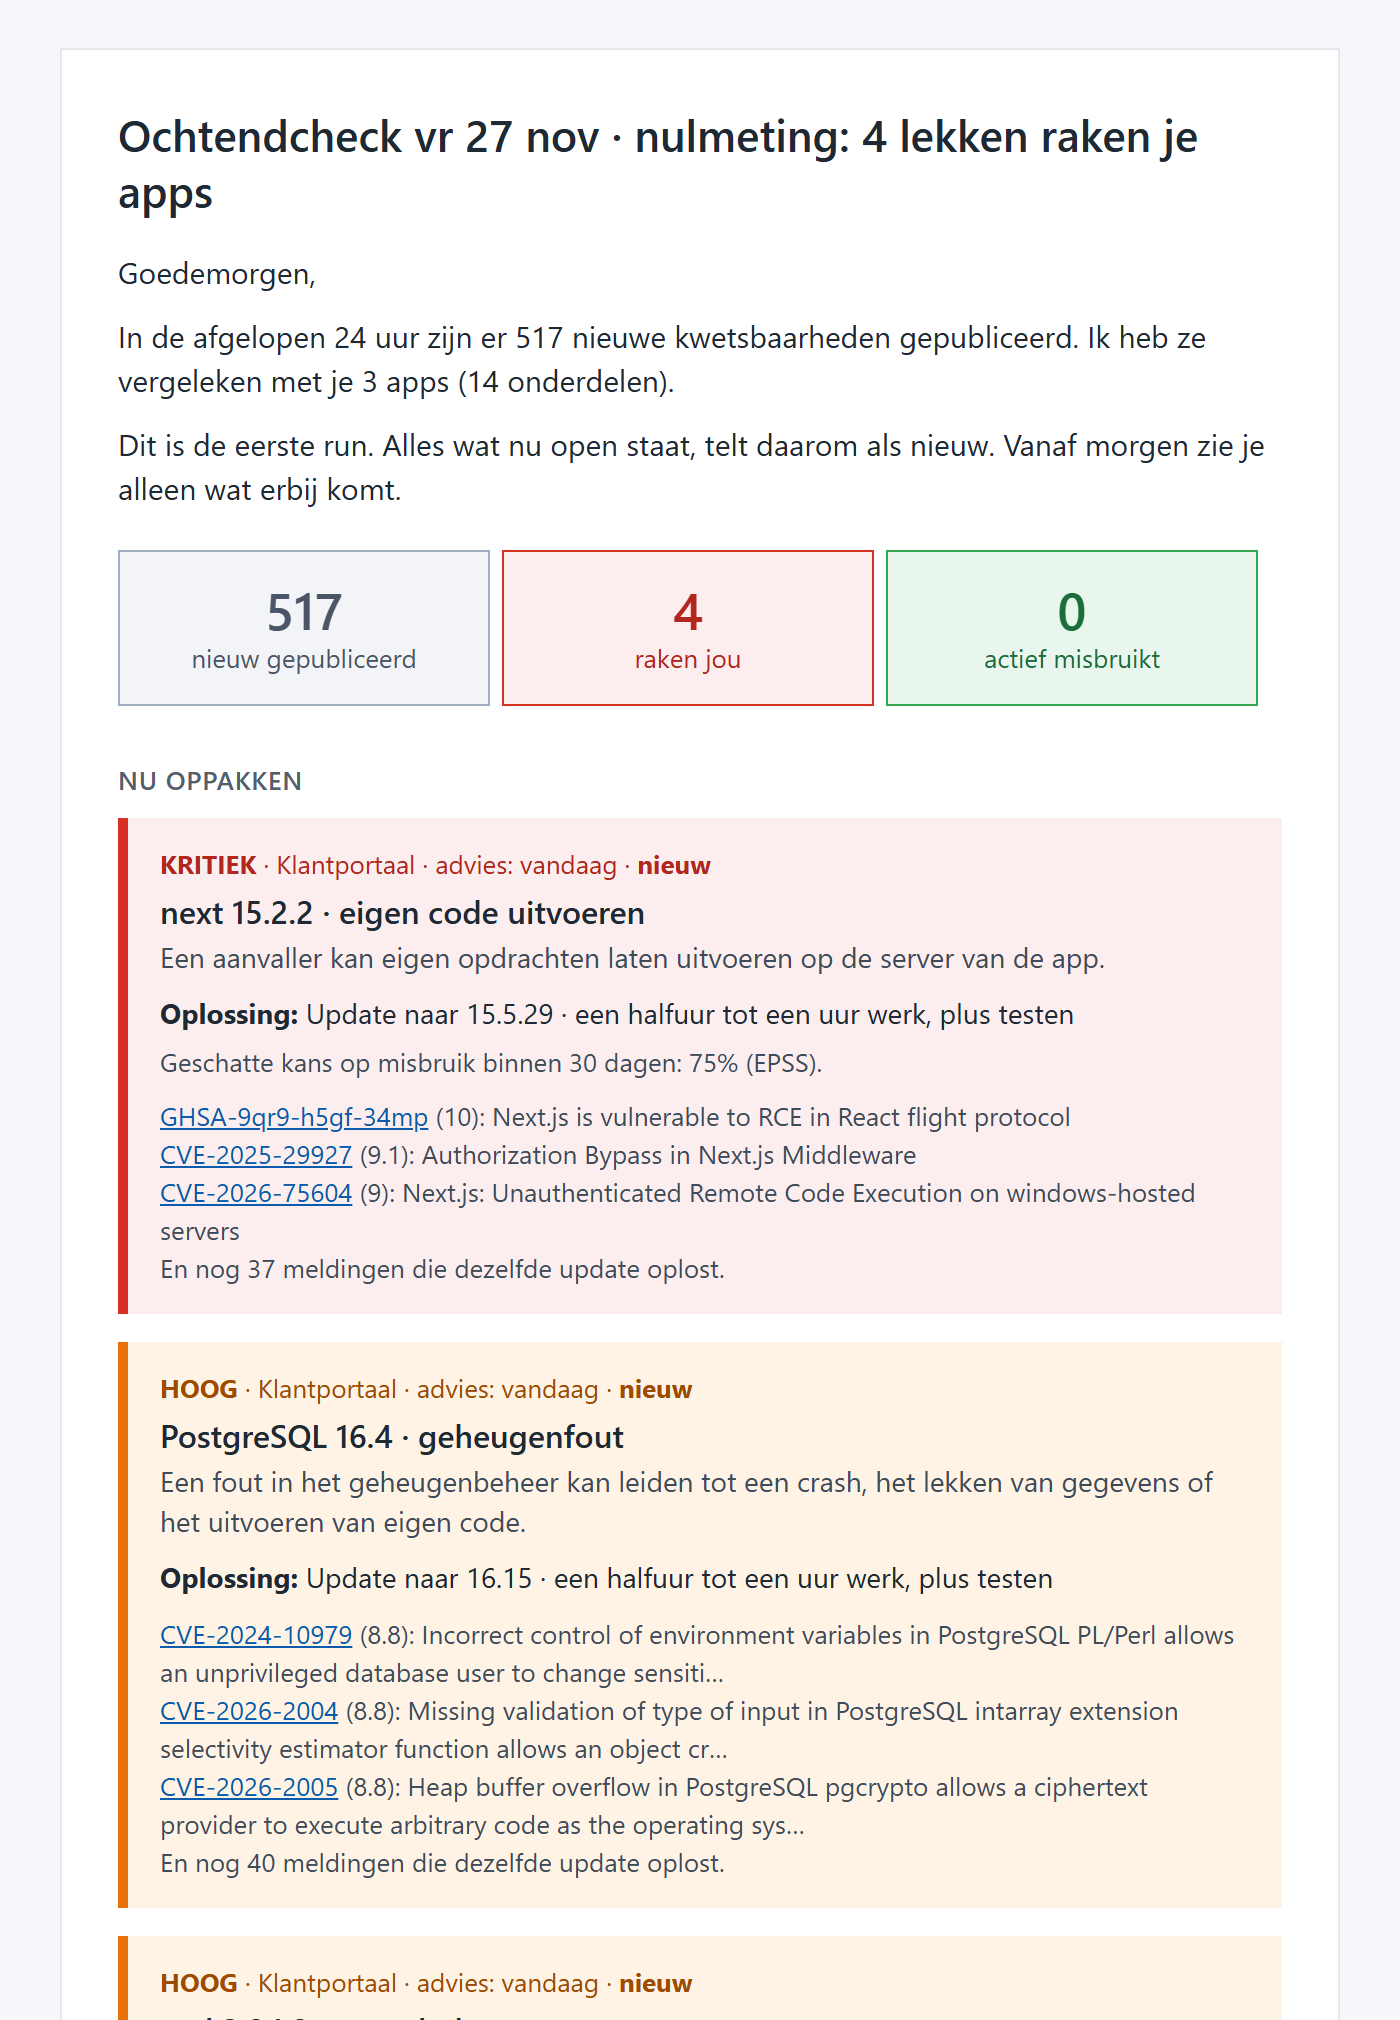
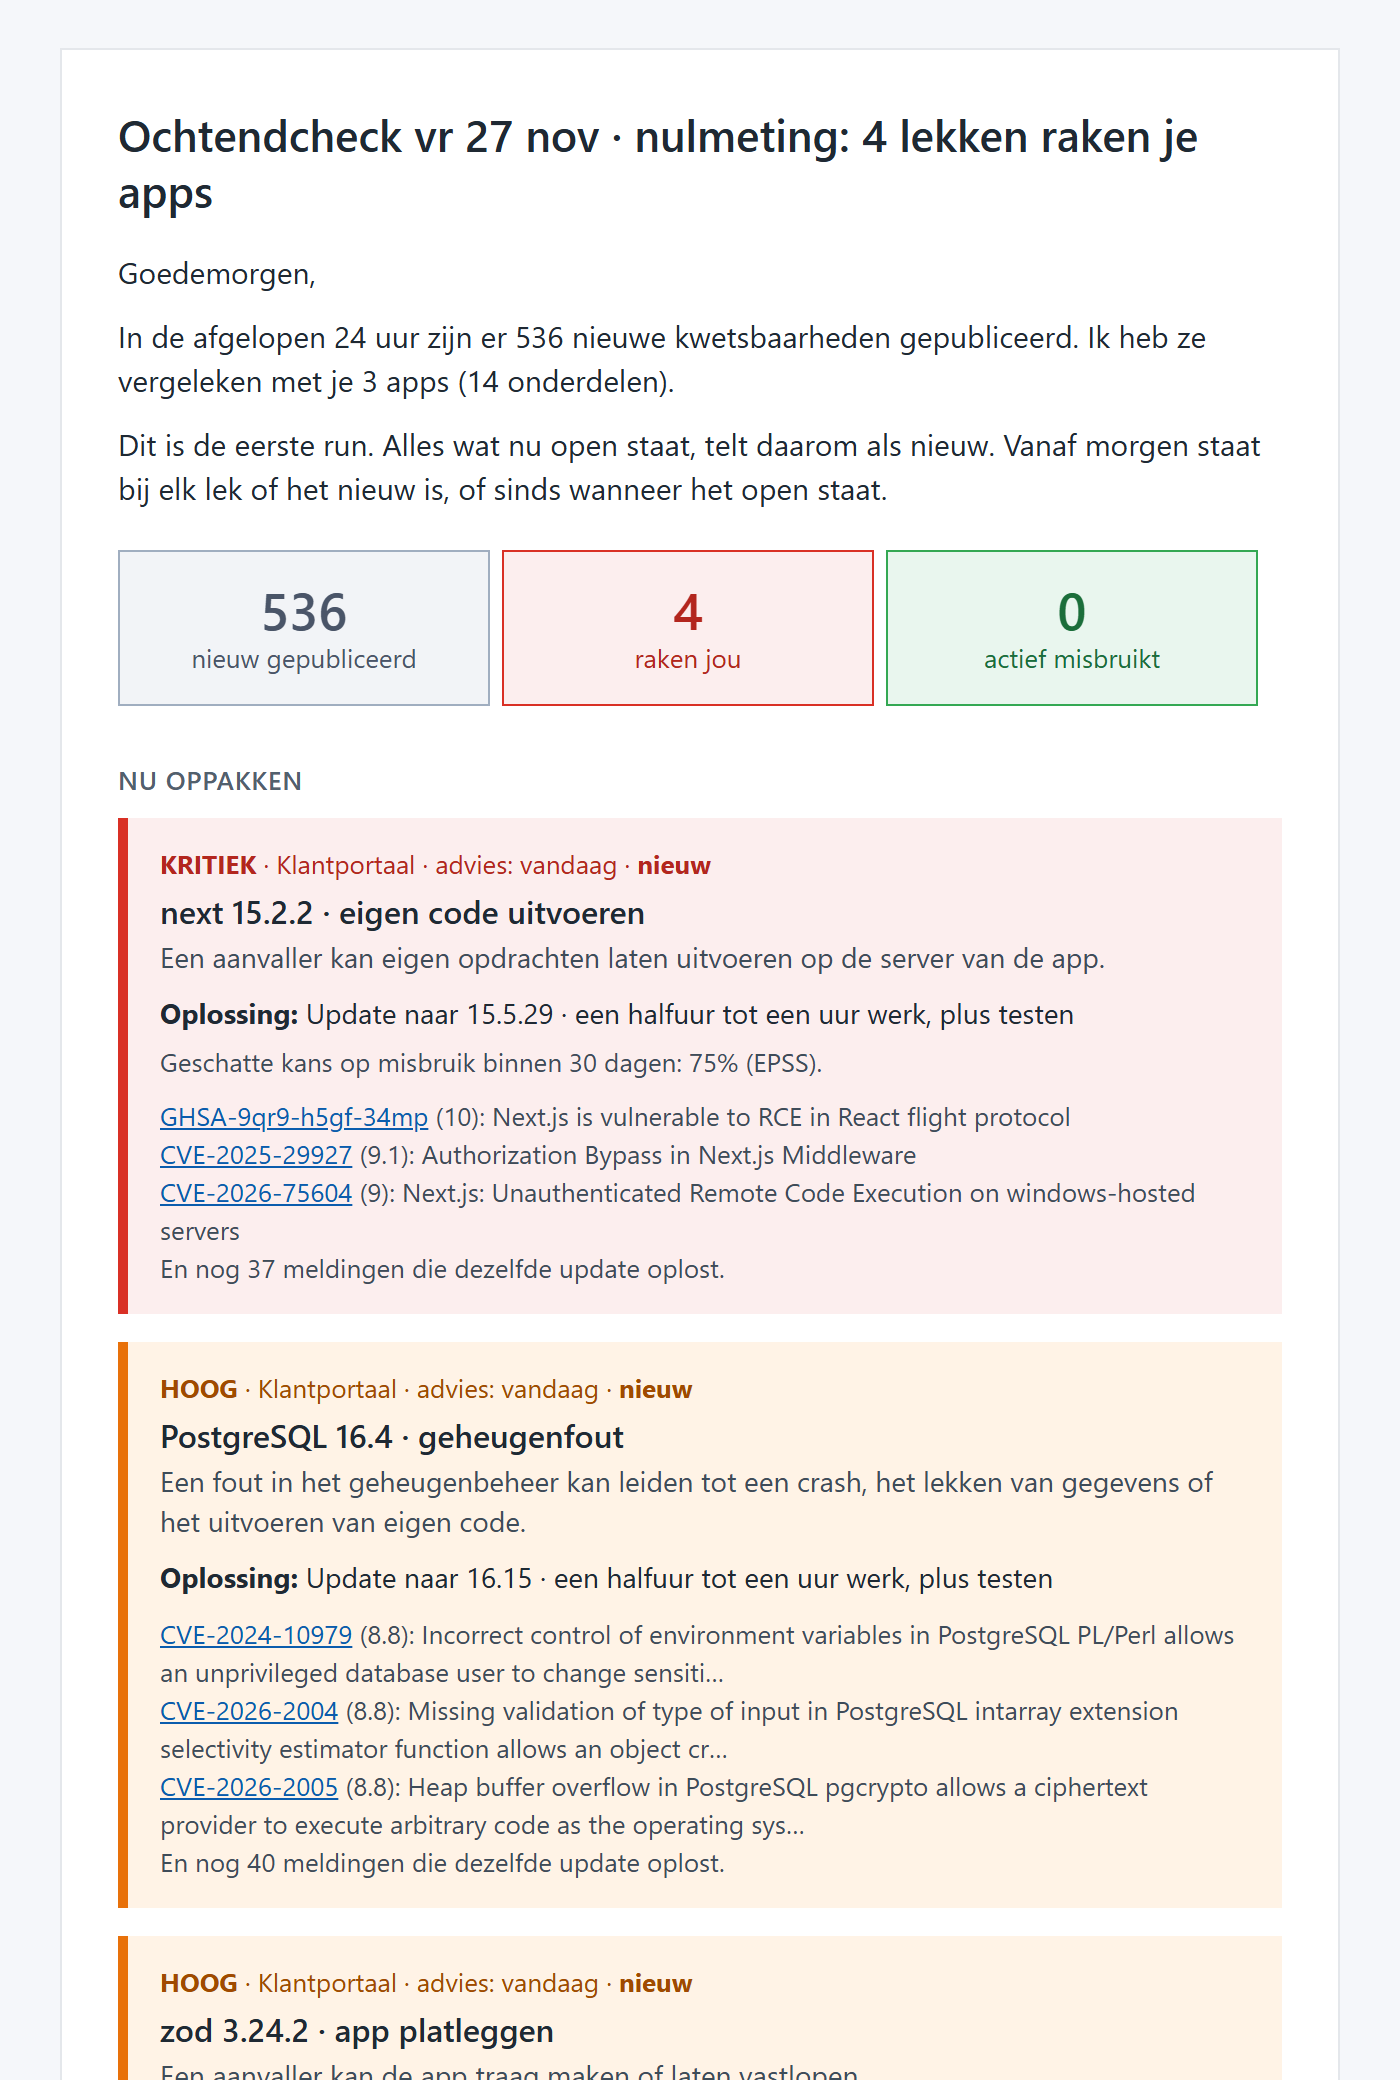
Een app die niet volledig is gecontroleerd staat nooit onder geen actie nodig
De mail en het onderwerp noemen het als een lockfile niet te lezen was of een bron voor een platformonderdeel geen antwoord gaf. De handleiding beschrijft nu ook de route zonder installeren, de vorm van techniekkaart.json, de einddatum van het token en wat er precies naar welke bron gaat.

diff --git a/README.md b/README.md
@@ -10,12 +10,12 @@ openbare bronnen en mailt je wat hij vindt. Meestal is dat: niks aan de hand.
 
 ![Voorbeeld van de ochtendmail](docs/ochtendmail.png)
 
-- **Eén mail, voor 08:00.** Wat is er nieuw, wat raakt jou, wat wordt actief
+- **Eén mail, rond 08:00.** Wat is er nieuw, wat raakt jou, wat wordt actief
   misbruikt.
 - **Per lek een oplossing.** Naar welke versie je moet en hoeveel werk dat
   ongeveer is.
-- **Een instructie voor je developer.** Klaar om door te sturen, of om in Claude
-  Code te plakken.
+- **Een instructie voor je developer.** Per app de exacte opdrachten, klaar om
+  door te sturen.
 - **Zeven openbare bronnen.** OSV.dev met de GitHub Advisory Database, NVD, CISA
   KEV, EUVD, EPSS, het NCSC en nodejs.org.
 - **Alleen lezen.** De radar past niets aan in je apps.
@@ -50,8 +50,17 @@ Hoe de radar ernst, urgentie en de herstelversie bepaalt, staat in
 ## In gebruik nemen
 
 Je hebt een GitHub-account nodig, en een beheerder van Microsoft 365 als je de
-mail in Outlook wilt ontvangen. Reken op een uur voor de eerste app. Liever
-niet zelf typen? Met de prompt in
+mail in Outlook wilt ontvangen. Reken op een uur voor de eerste app.
+
+Er zijn twee manieren om de stappen te doen:
+
+- **Alleen in de browser.** Je hoeft niets te installeren. Je maakt je kopie
+  (stap 1), maakt `techniekkaart.json` aan in GitHub via **Add file**, **Create
+  new file** (stap 3), zet de secrets erin (stap 4) en start de taak (stap 5).
+- **Op je eigen computer.** Je hebt dan Git en Node.js 20 of hoger nodig. Zo
+  kun je het voorbeeld draaien en je kaart testen voordat je iets verstuurt.
+
+Liever niet zelf typen? Met de prompt in
 [prompts/03-radar-installeren.md](prompts/03-radar-installeren.md) loopt Claude
 Code de stappen met je door.
 
@@ -65,7 +74,7 @@ repository**. Zet de zichtbaarheid op **Private**.
 > horen niet in een openbare repository. De taak weigert te draaien als er een
 > techniekkaart in een openbare repository staat.
 
-Haal je kopie daarna binnen:
+Werk je op je eigen computer, haal je kopie dan binnen:
 
 ```bash
 git clone https://github.com/<jouw-account>/<jouw-kopie>.git
@@ -84,11 +93,27 @@ hoger nodig; installeren van pakketten hoeft niet.
 
 ### 3. Zet je apps op de kaart
 
-Kopieer het voorbeeld en vul je eigen apps in:
+Maak in de hoofdmap van je kopie het bestand `techniekkaart.json`. De vorm is
+altijd dezelfde: een lijst `apps` met per app een blok.
 
-```bash
-cp voorbeeld/techniekkaart.json techniekkaart.json
+```json
+{
+  "bedrijf": "Jouw bedrijf",
+  "apps": [
+    {
+      "naam": "Klantportaal",
+      "gevoeligheid": "hoog",
+      "bereikbaar": "internet",
+      "platform": [{ "naam": "nodejs", "versie": "22.11.0" }],
+      "bronnen": [{ "soort": "github", "repo": "jouw-bedrijf/klantportaal", "pad": "package-lock.json" }]
+    }
+  ]
+}
 ```
+
+Een tweede app zet je als volgend blok in de lijst, met een komma ertussen. Een
+uitgebreid voorbeeld staat in
+[voorbeeld/techniekkaart.json](voorbeeld/techniekkaart.json).
 
 Voor de onderdelen van een app zijn er twee manieren.
 
@@ -99,9 +124,13 @@ lockfile elke ochtend op, dus de kaart klopt ook nadat je app is bijgewerkt:
 "bronnen": [{ "soort": "github", "repo": "jouw-bedrijf/klantportaal", "pad": "package-lock.json" }]
 ```
 
-Maak hiervoor in GitHub een fine-grained token dat alleen de inhoud van die
-repositories mag lezen (Contents: Read-only) en zet het als secret
-`RADAR_GITHUB_TOKEN`.
+Maak hiervoor in GitHub een fine-grained token (Settings, Developer settings,
+Personal access tokens, Fine-grained tokens). Kies bij **Resource owner** de
+eigenaar van de repositories, bij **Repository access** alleen de repositories
+van je apps, en zet bij **Permissions** alleen Contents op Read-only. Zet het
+token als secret `RADAR_GITHUB_TOKEN`. Een token heeft een einddatum: zet die in
+je agenda, want daarna leest de radar je lockfiles niet meer. De mail zegt het
+als dat gebeurt.
 
 **Als momentopname in de kaart.** Handig als de code niet in GitHub staat:
 
@@ -120,6 +149,12 @@ Controleer de kaart met een droge run. Die verstuurt en onthoudt niets:
 node src/radar.mjs --droog
 ```
 
+Haalt de radar je lockfiles uit GitHub, dan heeft een lokale run het token
+nodig (`RADAR_GITHUB_TOKEN`). Makkelijker is het om de kaart in je kopie te
+zetten en de taak in GitHub te starten (stap 5). Zolang de mail niet is
+ingesteld, verstuurt hij niets en staat het rapport in de samenvatting van de
+run.
+
 ### 4. Koppel Outlook
 
 Volg [docs/outlook-instellen.md](docs/outlook-instellen.md). Je maakt een
@@ -129,7 +164,9 @@ een webhook.
 
 ### 5. Zet de ochtendcheck aan
 
-Zet je kaart in je kopie:
+Zet je kaart in je kopie. In de browser: **Add file**, **Create new file**, naam
+`techniekkaart.json`, plak de inhoud en klik op **Commit changes**. Of vanaf je
+computer:
 
 ```bash
 git add techniekkaart.json
@@ -138,9 +175,11 @@ git push
 ```
 
 Ga in GitHub naar **Actions**, kies **Ochtendcheck** en klik op **Run
-workflow**. Daarna draait de taak elke ochtend om 07:40 Nederlandse tijd. De
-eerste mail is je nulmeting: alles wat nu open staat. Vanaf de tweede mail zie
-je wat erbij komt.
+workflow**. Daarna start de taak elke ochtend om 07:40 Nederlandse tijd, zodat
+de mail er meestal voor 08:00 is. Bij drukte kan GitHub een taak later starten.
+
+De eerste mail is je nulmeting: alles wat nu open staat. Vanaf de tweede mail
+staat bij elk lek of het nieuw is, of sinds wanneer het open staat.
 
 ## De techniekkaart
 
@@ -183,8 +222,11 @@ Alles stel je in met omgevingsvariabelen. In GitHub zijn dat secrets
 | `RADAR_WEBHOOK_URL` | In plaats van Outlook: het adres waar de mail als JSON heen gaat |
 | `RADAR_GITHUB_TOKEN` | Leestoegang tot de repositories van je apps, voor bronnen van de soort `github` |
 | `NVD_API_KEY` | Optioneel. Met een gratis sleutel van NVD gaat de controle van platformonderdelen sneller |
-| `RADAR_ALLEEN_BIJ_NIEUWS` | Optioneel, als variabele. Zet op `ja` om alleen een mail te krijgen als er iets nieuws is |
-| `RADAR_TIJDZONE` | Optioneel. Standaard `Europe/Amsterdam` |
+| `RADAR_ALLEEN_BIJ_NIEUWS` | Optioneel. Zet op `ja` om alleen een mail te krijgen als er iets nieuws is |
+| `RADAR_TIJDZONE` | Optioneel. De tijdzone voor de datum in de mail, standaard `Europe/Amsterdam` |
+
+De laatste twee zet je in GitHub niet als secret maar als variabele: hetzelfde
+scherm, tabblad **Variables**.
 
 Ons advies: laat de mail elke dag komen, ook als er niets is. Een mail die
 wegblijft, valt dan op.
@@ -209,12 +251,17 @@ dat je een bekend lek in een onderdeel niet mist.
 
 - **Wat er naar buiten gaat.** De radar stuurt per onderdeel alleen ecosysteem,
   naam en versie naar OSV.dev, en de naam en versie van platformonderdelen naar
-  NVD. De namen van je apps, je code en je gegevens verlaten je omgeving niet.
-- **Wat hij mag.** De taak heeft in GitHub alleen leesrechten. Het token voor je
-  app-repositories mag alleen lezen. De app-registratie mag alleen versturen, en
-  alleen vanuit één postvak.
+  NVD. Van de meldingen die hij vindt, stuurt hij het nummer naar EPSS en EUVD
+  om er de kans op misbruik bij te zoeken. De namen van je apps, je code en je
+  gegevens verlaten je omgeving niet.
+- **Wat hij mag.** De taak heeft in GitHub alleen leesrechten. Het token mag
+  alleen lezen, in de repositories die jij aanwijst; de radar haalt er alleen
+  het lockfile mee op. De app-registratie mag alleen versturen, en alleen vanuit
+  één postvak.
 - **Wat hij bewaart.** In de map `.radar` staat welke meldingen hij al zag. De
-  mail en het rapport van elke run blijven 14 dagen bij de run staan.
+  mail en het rapport van elke run blijven 14 dagen als bijlage bij de run
+  staan, en het rapport staat ook in de samenvatting van de run. Alleen wie bij
+  je afgeschermde repository kan, ziet dat.
 - **Geen pakketten van derden.** De radar gebruikt alleen wat in Node.js zit. De
   acties in de taak staan vast op een commit, niet op een versienaam.
 - **Tekst uit bronnen is tekst.** Alles wat uit een melding komt, wordt
@@ -240,6 +287,11 @@ Dat is normaal bij een app die een tijd niet is bijgewerkt. Begin bij Nu
 oppakken. Eén update lost vaak tientallen meldingen tegelijk op. De prompt in
 [prompts/06-nulmeting-opruimen.md](prompts/06-nulmeting-opruimen.md) maakt er
 een plan van.
+
+**Wat betekent "niet volledig gecontroleerd"?**
+Dat de radar een deel van een app niet kon nakijken, bijvoorbeeld omdat een
+lockfile niet te lezen was of een bron geen antwoord gaf. Die app staat dan
+nooit onder Geen actie nodig. Onder Let op staat wat er aan de hand is.
 
 **Hoe weet ik dat de radar nog werkt?**
 Doordat je elke ochtend een mail krijgt, ook als er niets is. Mislukt een run,

diff --git a/docs/hoe-het-werkt.md b/docs/hoe-het-werkt.md
@@ -17,7 +17,8 @@ dezelfde uitkomst te geven.
    webserver vraagt hij NVD welke kwetsbaarheden bij jouw versie horen.
 4. **Verrijken.** Per kwetsbaarheid zoekt hij op of die actief wordt misbruikt
    (CISA KEV en EUVD), hoe groot de kans daarop is (EPSS) en of het NCSC er een
-   advies over heeft.
+   advies over heeft. Naar EPSS en EUVD stuurt hij daarvoor het nummer van de
+   kwetsbaarheid.
 5. **Beoordelen.** Per app en per onderdeel bepaalt hij de ernst, de versie die
    het oplost, hoeveel werk dat is en hoe snel het moet.
 6. **Vergelijken met gisteren.** Wat hij nog niet eerder zag, krijgt het label
@@ -37,7 +38,9 @@ dezelfde uitkomst te geven.
 | [nodejs.org](https://nodejs.org/en/blog/vulnerability) | Beveiligingsreleases van Node.js | Node.js-project |
 
 Geeft een bron geen antwoord, dan gaat de run door en staat onderaan de mail
-welke bron ontbrak. Alleen als OSV.dev uitvalt, is er niets te vergelijken. De
+welke bron ontbrak. Kon een deel van een app daardoor niet worden nagekeken, of
+was een lockfile niet te lezen, dan staat die app onder Niet volledig
+gecontroleerd en nooit onder Geen actie nodig. Alleen als OSV.dev uitvalt, is er niets te vergelijken. De
 mail zegt dan dat de controle niet is gelukt, en de taak in GitHub wordt rood.
 
 ## Ernst
@@ -106,8 +109,9 @@ dan wint het zwaarste gevolg. De vertaaltabel staat in
 
 ## Wat nieuw is
 
-De radar onthoudt in de map `.radar` welke combinaties van app, onderdeel, versie
-en melding hij al zag. In GitHub Actions blijft die map bewaard via de cache.
+Elke mail laat alles zien wat open staat. Bij elk lek staat of het nieuw is, of
+sinds wanneer het open staat. De radar onthoudt daarvoor in de map `.radar`
+welke combinaties van app, onderdeel, versie en melding hij al zag. In GitHub Actions blijft die map bewaard via de cache.
 Raakt de cache een keer leeg, dan telt de eerstvolgende mail alles als nieuw. Er
 gaat verder niets verloren.
 

diff --git a/docs/outlook-instellen.md b/docs/outlook-instellen.md
@@ -88,7 +88,8 @@ Twee dingen om te weten:
 
 ## Stap 4: test het
 
-Zet de vijf waarden lokaal in je terminal en draai de radar één keer:
+Zet de vijf waarden lokaal in je terminal en draai de radar één keer. Op een
+Mac of in Linux:
 
 ```bash
 export RADAR_TENANT_ID="..."
@@ -96,6 +97,17 @@ export RADAR_CLIENT_ID="..."
 export RADAR_CLIENT_SECRET="..."
 export RADAR_MAIL_VAN="radar@jouwbedrijf.nl"
 export RADAR_MAIL_AAN="jij@jouwbedrijf.nl"
+node src/radar.mjs
+```
+
+In PowerShell op Windows:
+
+```powershell
+$env:RADAR_TENANT_ID = "..."
+$env:RADAR_CLIENT_ID = "..."
+$env:RADAR_CLIENT_SECRET = "..."
+$env:RADAR_MAIL_VAN = "radar@jouwbedrijf.nl"
+$env:RADAR_MAIL_AAN = "jij@jouwbedrijf.nl"
 node src/radar.mjs
 ```
 
@@ -108,7 +120,8 @@ workflow** in stap 5.
 In je eigen, afgeschermde repository: **Settings**, **Secrets and variables**,
 **Actions**, **New repository secret**. Maak de vijf secrets uit de tabel
 bovenaan. Ga daarna naar **Actions**, kies **Ochtendcheck** en klik op **Run
-workflow**. Binnen een minuut hoort de mail er te zijn.
+workflow**. Na een paar minuten hoort de mail er te zijn. Krijg je een status
+403, dan zijn de rechten uit stap 3 nog niet doorgekomen: wacht tot twee uur.
 
 ## Als het niet werkt
 
